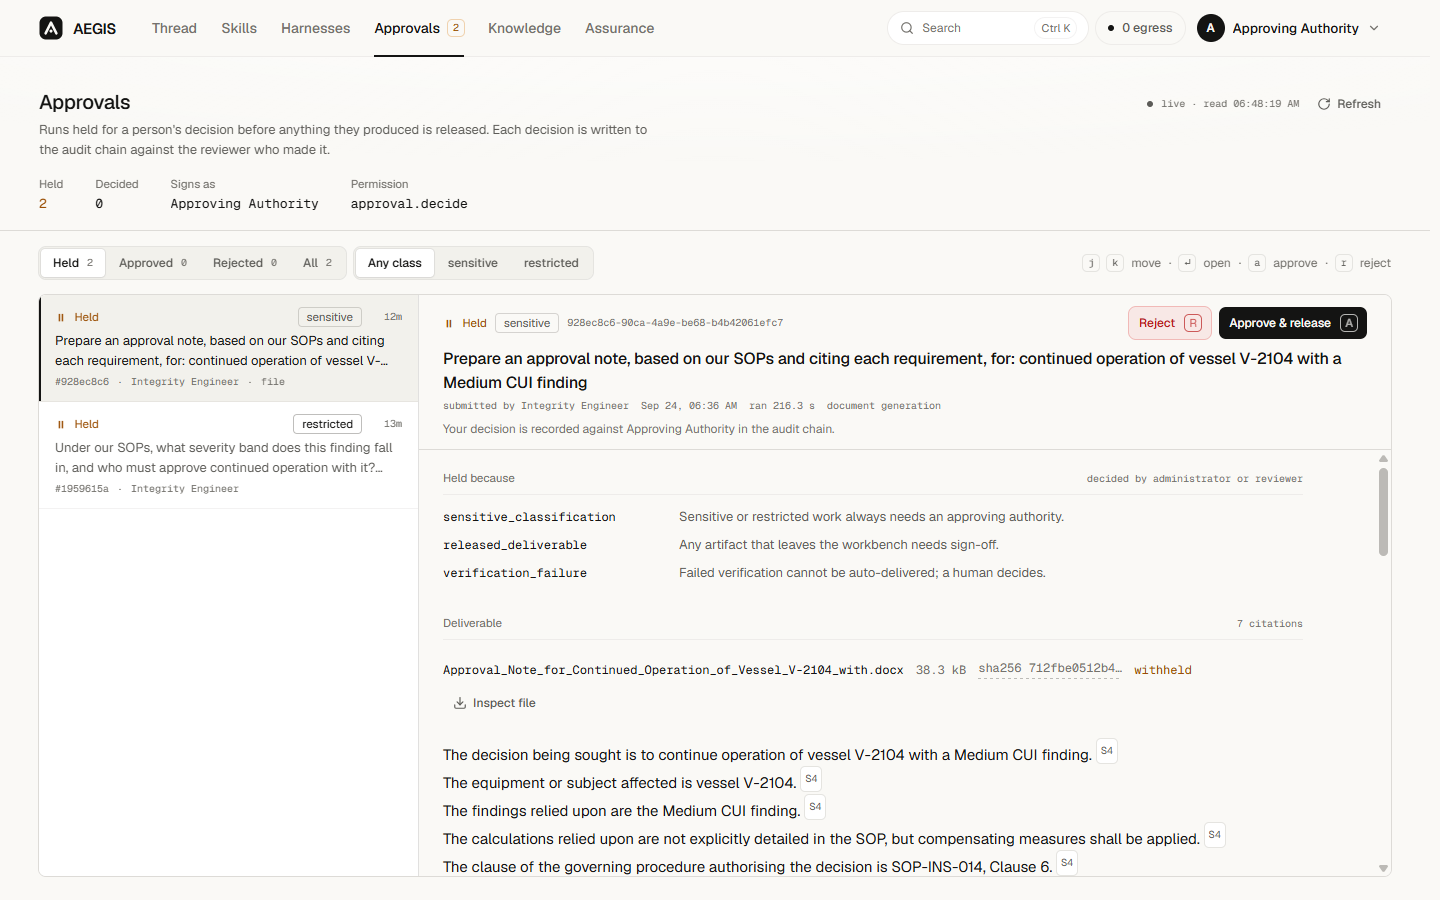
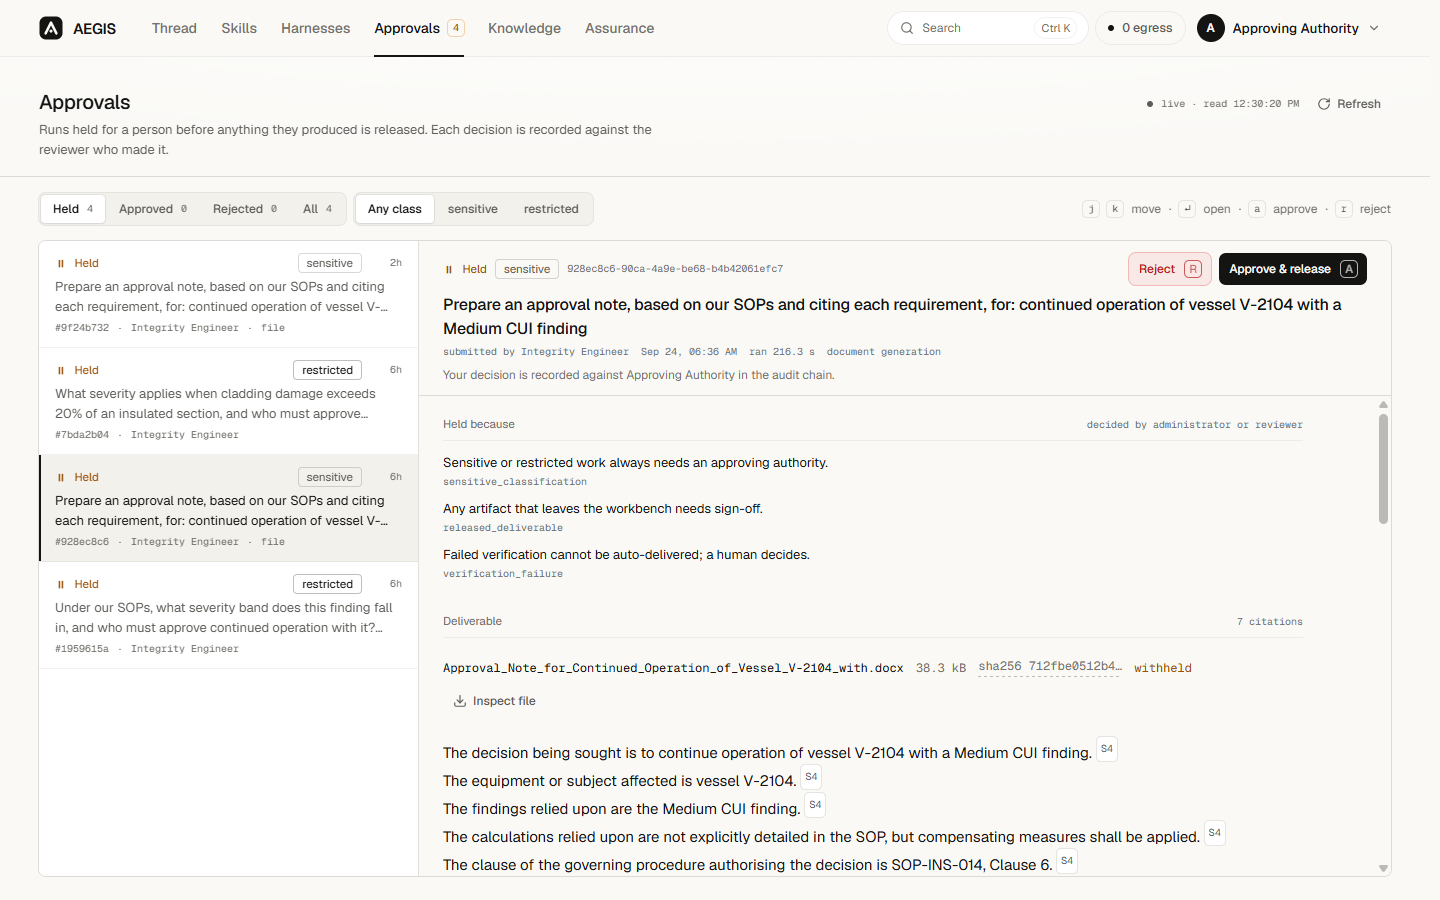
Recapture the gallery's Approvals and Audit, and name the sandbox's limits
- The landing gallery's Approvals and Audit slides showed the headers
  and the "Newest blocks" strip those screens no longer have. Both are
  recaptured from the running product in both themes. Audit now shows
  the moment the slide is about: the chain recomputed in the browser,
  agreeing with the server on the same head, over records each checked.
- The containment verdict printed windows_job_object and the test's
  time in milliseconds; it now says "limits by Windows job object" and
  the time in seconds. The sandbox screen uses the same wording, from
  one place.

diff --git a/frontend/features/sandbox/ui/sandbox-console.tsx b/frontend/features/sandbox/ui/sandbox-console.tsx
@@ -12,6 +12,7 @@ import { SANDBOX_PRESETS, type SandboxPreset } from '../model/presets'
 import type { SandboxExecuteResponse, SandboxLimits } from '../model/types'
 import { ResultPanel } from './result-panel'
 import { SelfTestPanel } from './self-test-panel'
+import { sandboxMechanism } from '@/lib/presentation'
 
 const CLASSIFICATIONS: Sensitivity[] = ['normal', 'confidential', 'sensitive', 'restricted']
 
@@ -70,13 +71,6 @@ function PresetRow({ preset, active, onClick }: { preset: SandboxPreset; active:
  * contained and everything the host measured doing it. No figure on the page
  * is written by the page; each is read back from this machine.
  */
-/** The enforcement mechanisms the service reports, in words; anything else is shown as sent. */
-const MECHANISM: Record<string, string> = {
-  windows_job_object: 'Windows job object',
-  posix_rlimit: 'POSIX rlimits',
-  none: 'nothing',
-}
-
 export function SandboxConsole() {
   const [code, setCode] = useState(SANDBOX_PRESETS[1].code)
   const [activePreset, setActivePreset] = useState<string | null>(SANDBOX_PRESETS[1].id)
@@ -125,7 +119,7 @@ export function SandboxConsole() {
         title="Sandbox"
         description="Run Python under this host's limits and see exactly what it did — through the same gateway, checks and audit trail as an agent's own code."
         meta={[
-          { label: 'Limits enforced by', value: limits ? MECHANISM[limits.backend] ?? limits.backend : '—', hint: limits?.backend },
+          { label: 'Limits enforced by', value: limits ? sandboxMechanism(limits.backend) : '—', hint: limits?.backend },
           { label: 'Memory', value: limits ? `≤ ${limits.memory_mb} MB` : '—' },
           { label: 'CPU', value: limits ? `≤ ${limits.cpu_seconds} s` : '—' },
           {

diff --git a/frontend/components/security/verdicts.tsx b/frontend/components/security/verdicts.tsx
@@ -5,6 +5,7 @@ import { Play } from 'lucide-react'
 import { Button } from '@/shared/ui/controls/button'
 import { LEDGER_MUTED } from '@/shared/ui/data/ledger'
 import type { ReadFailure } from '@/shared/ui/data/reading'
+import { sandboxMechanism } from '@/lib/presentation'
 import { cn } from '@/lib/utils'
 import type { Policies, SovereigntyStatus } from './api'
 import { Ago, stamp } from './egress-panel'
@@ -143,7 +144,9 @@ export function ContainmentVerdict({ run, onRun }: { run: SandboxRun; onRun: () 
         figure={`${passed}/${total}`}
         tone={held ? 'sovereign' : 'critical'}
         caption={held ? 'attacks contained by this host’s sandbox' : `${total - passed} of ${total} attacks were not contained`}
-        foot={`ran ${clock(run.report.ran_at)} · ${run.report.duration_ms} ms · ${run.report.backend ?? 'limits not reported'}`}
+        foot={`ran ${clock(run.report.ran_at)} · took ${(run.report.duration_ms / 1000).toFixed(1)} s · ${
+          run.report.backend ? `limits by ${sandboxMechanism(run.report.backend)}` : 'limits not reported'
+        }`}
         action={button}
       />
     )

diff --git a/frontend/app/(marketing)/page.tsx b/frontend/app/(marketing)/page.tsx
@@ -305,7 +305,7 @@ const GALLERY: GallerySlide[] = [
     body: 'Held work waits for a reviewer, and never for the one who ran it. Built for the keyboard: j, k, a, r.',
     light: '/landing/shots/approvals-light.png',
     dark: '/landing/shots/approvals-dark.png',
-    alt: 'The approval queue: held runs on the left, one open on the right with the reason it was held.',
+    alt: 'The approval queue: held runs on the left, one open on the right with the reasons it was held and the document it would release.',
   },
   {
     id: 'sandbox',
@@ -323,7 +323,7 @@ const GALLERY: GallerySlide[] = [
     body: 'Model calls, tool runs and decisions, hash-chained. Recompute the whole chain in your browser.',
     light: '/landing/shots/audit-light.png',
     dark: '/landing/shots/audit-dark.png',
-    alt: 'The audit screen: the chain verified by the server, and the newest records with their hashes.',
+    alt: 'The audit screen: the chain verified by the server and recomputed in this browser, both ending at the same head, over the newest records, each one checked.',
   },
 ]
 

diff --git a/frontend/lib/presentation.ts b/frontend/lib/presentation.ts
@@ -145,3 +145,17 @@ export const DELIVERABLE_FORMATS = [
   { id: 'pptx', label: 'PowerPoint', ext: '.pptx' },
   { id: 'md', label: 'Markdown', ext: '.md' },
 ]
+
+/**
+ * The sandbox's limit-enforcement mechanisms, as the service reports them,
+ * in words. Anything not listed is shown as sent rather than guessed at.
+ */
+const SANDBOX_MECHANISMS: Record<string, string> = {
+  windows_job_object: 'Windows job object',
+  posix_rlimit: 'POSIX rlimits',
+  none: 'nothing',
+}
+
+export function sandboxMechanism(backend: string): string {
+  return SANDBOX_MECHANISMS[backend] ?? backend
+}
